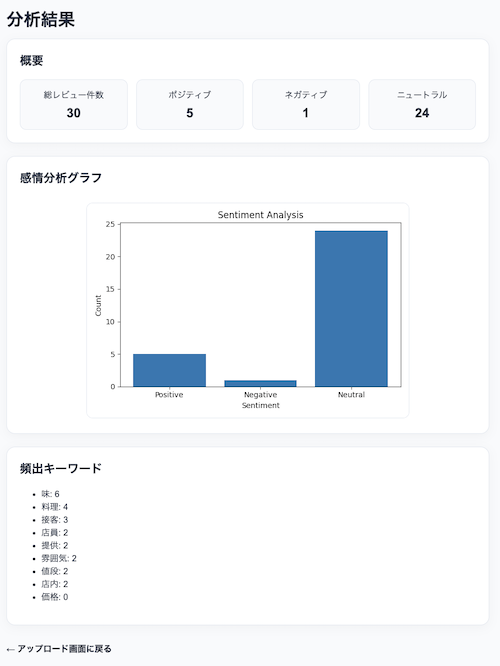
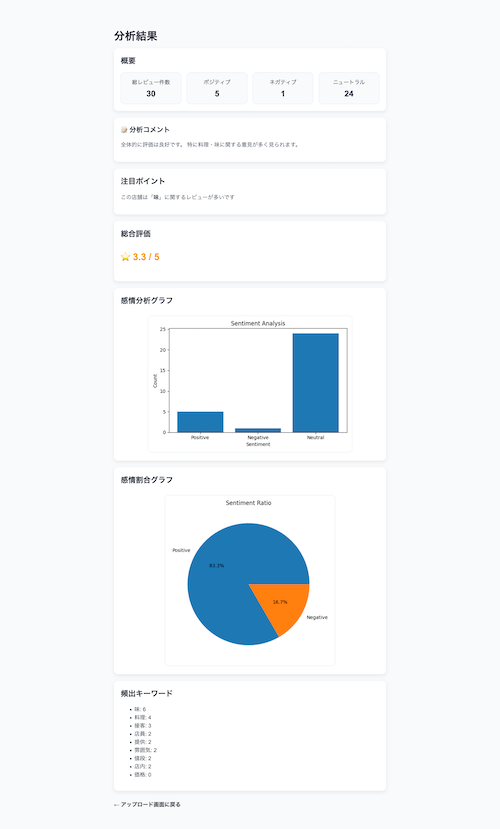
docs: README改善（デモ説明・技術スタックの役割・UX観点の追記）

diff --git a/app/templates/result.html b/app/templates/result.html
@@ -33,9 +33,38 @@
       </div>
 
       <div class="card">
+        <div class="title">📝 分析コメント</div>
+        <p>{{ comment }}</p>
+      </div>
+
+      <div class="card">
+        <h2>注目ポイント</h2>
+        <p>
+          この店舗は「<strong>{{ top_keyword }}</strong
+          >」に関するレビューが多いです
+        </p>
+      </div>
+
+      <div class="card">
+        <h2>総合評価</h2>
+        <p
+          class="score {% if score >= 4 %} high {% elif score >= 3 %} medium {% else %} low {% endif %}"
+        >
+          ⭐ {{ score }} / 5
+        </p>
+      </div>
+
+      <div class="card">
         <h2>感情分析グラフ</h2>
         <div class="chart">
           <img src="/static/charts/sentiment_chart.png" alt="感情分析グラフ" />
+        </div>
+      </div>
+
+      <div class="card">
+        <h2>感情割合グラフ</h2>
+        <div class="chart">
+          <img src="/static/charts/pie_chart.png" alt="感情割合グラフ" />
         </div>
       </div>
 

diff --git a/app/static/css/style.css b/app/static/css/style.css
@@ -7,19 +7,23 @@ body {
 
 /* layout */
 .container {
-  max-width: 900px;
+  max-width: 800px;
   margin: 40px auto;
-  padding: 0 20px 60px;
+  padding: 20px;
 }
 
-/* card */
 .card {
-  background: #ffffff;
-  border: 1px solid #e2e8f0;
-  border-radius: 16px;
-  padding: 24px;
-  margin-bottom: 24px;
-  box-shadow: 0 4px 20px rgba(0, 0, 0, 0.04);
+  background: #fff;
+  border-radius: 12px;
+  padding: 20px;
+  box-shadow: 0 4px 12px rgba(0, 0, 0, 0.08);
+  margin-bottom: 20px;
+}
+
+.title {
+  font-size: 20px;
+  font-weight: bold;
+  margin-bottom: 12px;
 }
 
 /* headings */
@@ -69,6 +73,24 @@ button:hover {
   margin-top: 20px;
   font-size: 14px;
   color: #64748b;
+}
+
+/* score */
+.score {
+  font-size: 28px;
+  font-weight: bold;
+}
+
+.score.high {
+  color: #22c55e; /* 緑 */
+}
+
+.score.medium {
+  color: #f59e0b; /* オレンジ */
+}
+
+.score.low {
+  color: #ef4444; /* 赤 */
 }
 
 /* summary */

diff --git a/app/main.py b/app/main.py
@@ -23,7 +23,7 @@ def index(request: Request):
 @app.get("/analyze")
 def analyze_page():
     return RedirectResponse(url="/")
-    
+
 @app.post("/analyze", response_class=HTMLResponse)
 async def analyze(request: Request, file: UploadFile = File(...)):
     contents = await file.read()
@@ -78,7 +78,10 @@ async def analyze(request: Request, file: UploadFile = File(...)):
         reverse=True
     )
 
-    # ===== グラフ作成 =====
+    # ===== トップキーワード =====
+    top_keyword = sorted_keywords[0][0] if sorted_keywords else None
+
+    # ===== 感情分析棒グラフ作成 =====
     labels = ["Positive", "Negative", "Neutral"]
     values = [pos_count, neg_count, neu_count]
 
@@ -93,6 +96,49 @@ async def analyze(request: Request, file: UploadFile = File(...)):
     plt.savefig(chart_path)
     plt.close()
 
+    # ===== ポジネガ割合円グラフ作成 =====
+    plt.figure(figsize=(5, 5))
+    plt.pie(
+        [pos_count, neg_count],
+        labels=["Positive", "Negative"],
+        autopct="%1.1f%%"
+    )
+    plt.title("Sentiment Ratio")
+    plt.tight_layout()
+
+    pie_chart_path = "app/static/charts/pie_chart.png"
+    plt.savefig(pie_chart_path)
+    plt.close()
+
+    # ===== 分析コメント =====
+    if pos_count > neg_count:
+        comment = "全体的に評価は良好です。"
+    elif neg_count > pos_count:
+        comment = "ネガティブな意見がやや目立ちます。改善ポイントの確認が必要です。"
+    else:
+        comment = "評価は拮抗しており、良い点と改善点の両方が見られます。"
+
+    top_keyword = None
+    for k, v in sorted_keywords:
+        if v > 0:
+            top_keyword = k
+            break
+
+    if top_keyword == "接客":
+        comment += " 特に接客に関する意見が多く見られます。"
+    elif top_keyword in ["味", "料理"]:
+        comment += " 特に料理・味に関する意見が多く見られます。"
+    elif top_keyword == "提供":
+        comment += " 提供スピードに関する意見が多く見られます。"
+    elif top_keyword in ["価格", "値段"]:
+        comment += " 価格に関する意見が多く見られます。"
+    elif top_keyword in ["雰囲気", "店内"]:
+        comment += " 店内の雰囲気に関する意見が多く見られます。"
+
+    # ===== 評価 =====
+    score = (pos_count * 5 + neu_count * 3 + neg_count * 1) / total
+    score = round(score, 1)
+
     return templates.TemplateResponse(
     "result.html",
         {
@@ -101,6 +147,9 @@ async def analyze(request: Request, file: UploadFile = File(...)):
             "pos": pos_count,
             "neg": neg_count,
             "neu": neu_count,
-            "keywords": sorted_keywords
+            "keywords": sorted_keywords,
+            "comment": comment,
+            "score": score,
+            "top_keyword": top_keyword,
         }
     )

diff --git a/README.md b/README.md
@@ -2,19 +2,29 @@
 
 Python（FastAPI + pandas）で構築した、飲食店レビュー分析ツールです。  
 CSVファイルをアップロードするだけで、レビューの傾向を可視化できます。
-店舗改善に役立つインサイトを、シンプルに可視化することを目的としています。
 
-具体的には、以下の分析結果を確認できます。
-
-- 感情分析（ポジティブ / ネガティブ）
-- レビュー件数の集計
-- 頻出キーワードの抽出
+レビューを「読む」だけでなく、  
+飲食店の評価・傾向・改善ポイントを一目で把握できるツールとして開発しました。
 
 ---
 
 ## デモ
 
+実際にCSVをアップロードして動作を確認できます。
+
 https://restaurant-review-analyzer-u7dc.onrender.com/
+
+---
+
+## 主な機能
+
+- CSVアップロードによるレビュー読み込み
+- 感情分析（Positive / Negative / Neutral）
+- キーワード抽出（頻出ワード）
+- グラフ表示（棒グラフ・円グラフ）
+- 総合評価スコア（★5段階）
+- 分析コメント自動生成
+- 注目キーワードの提示
 
 ---
 
@@ -30,30 +40,86 @@ https://restaurant-review-analyzer-u7dc.onrender.com/
 
 ### 感情分析グラフ
 
-![感情分析グラフ](images/graph.png)
+![感情分析グラフ](images/bar_graph.png)
+
+### 感情割合グラフ
+
+![感情割合グラフ](images/pie_chart.png)
 
 ---
 
-## 機能（MVP）
+## 使用方法
 
-- CSVアップロード
-- レビュー件数の集計
-- 感情分析（Positive / Negative / Neutral）
-- 頻出キーワード抽出
-- 感情分析グラフ（棒グラフ）
+1. CSVファイルを用意（カラム名：`review_text`）
+2. アプリにアップロード
+3. 分析結果を確認
+
+---
+
+## CSVフォーマット
+
+```csv
+review_text
+料理がとても美味しかった
+店員の対応が冷たかった
+提供が遅かったが味は良かった
+```
+
+※ review_text カラムが必須
 
 ---
 
 ## 技術スタック
 
 - Python
-- FastAPI
-- pandas
-- matplotlib
-- Jinja2
+- FastAPI（API / Webアプリケーション）
+- pandas（データ処理）
+- matplotlib（可視化）
+- Jinja2（テンプレート）
 - janome（今後拡張予定）
 
 ※ 本番環境では Python 3.12 を使用しています（matplotlibの互換性対応）
+
+---
+
+## データ処理フロー
+
+CSVアップロード
+↓
+pandasで読み込み
+↓
+テキスト解析（キーワード・感情）
+↓
+集計
+↓
+可視化（グラフ・スコア）
+
+---
+
+## 設計のポイント
+
+### シンプルな感情分析ロジック
+
+機械学習モデルではなく、キーワードベースで分類することで
+軽量かつ理解しやすい構成にしています。
+
+### 指標化による可視化
+
+レビューを以下のように変換しています：
+
+- Positive：5点
+- Neutral：3点
+- Negative：1点
+
+これにより、レビュー全体を★5段階評価として表現しています。
+
+### 実務を意識した設計
+
+実際の業務データ（CSV）を想定し、非エンジニアでも扱えるシンプルな操作性を意識しています。
+
+- CSVアップロード形式（業務データを想定）
+- 分析結果の可視化
+- 改善ポイントの抽出（コメント・キーワード）
 
 ---
 
@@ -63,36 +129,6 @@ https://restaurant-review-analyzer-u7dc.onrender.com/
 /        CSVアップロード画面
 /analyze 分析結果画面
 ```
-
-
----
-
-## データの流れ
-
-CSVアップロード
-↓
-pandasで読み込み
-↓
-テキスト分析（感情・キーワード）
-↓
-集計
-↓
-グラフ生成
-↓
-結果表示
-
----
-
-## CSVフォーマット
-
-```csv
-review_text
-料理がとても美味しかった
-店員さんの対応が冷たかった
-提供が遅かったけど味はよかった
-```
-
-※ review_text カラムが必須
 
 ---
 
@@ -114,30 +150,15 @@ http://localhost:8000 にアクセス
 
 ---
 
-## 設計のポイント
-
-### シンプルな分析構成
-
-機械学習モデルは使用せず、ルールベースで感情分析を実装しています。
-これにより、処理の流れが分かりやすく、拡張しやすい構成にしています。
-
-### Python完結構成
-
-フロントエンドとバックエンドを分離せず、FastAPI + Jinja2で完結する構成としています。
-分析処理に集中できる設計です。
-
----
-
 ## 今後の拡張
 
-- 形態素解析（janome）による精度向上
 - ネガティブレビュー抽出
-- カテゴリ分類（味 / 接客 / 価格など）
+- カテゴリ分類（接客 / 味 / 価格など）
 - ワードクラウド
-- UI改善
+- 検索・フィルタ機能
 
 ---
 
 ## ライセンス
 
-本プロジェクトはポートフォリオ用途のため、商用利用は想定していません。
+本プロジェクトはポートフォリオ用途として作成しています。
